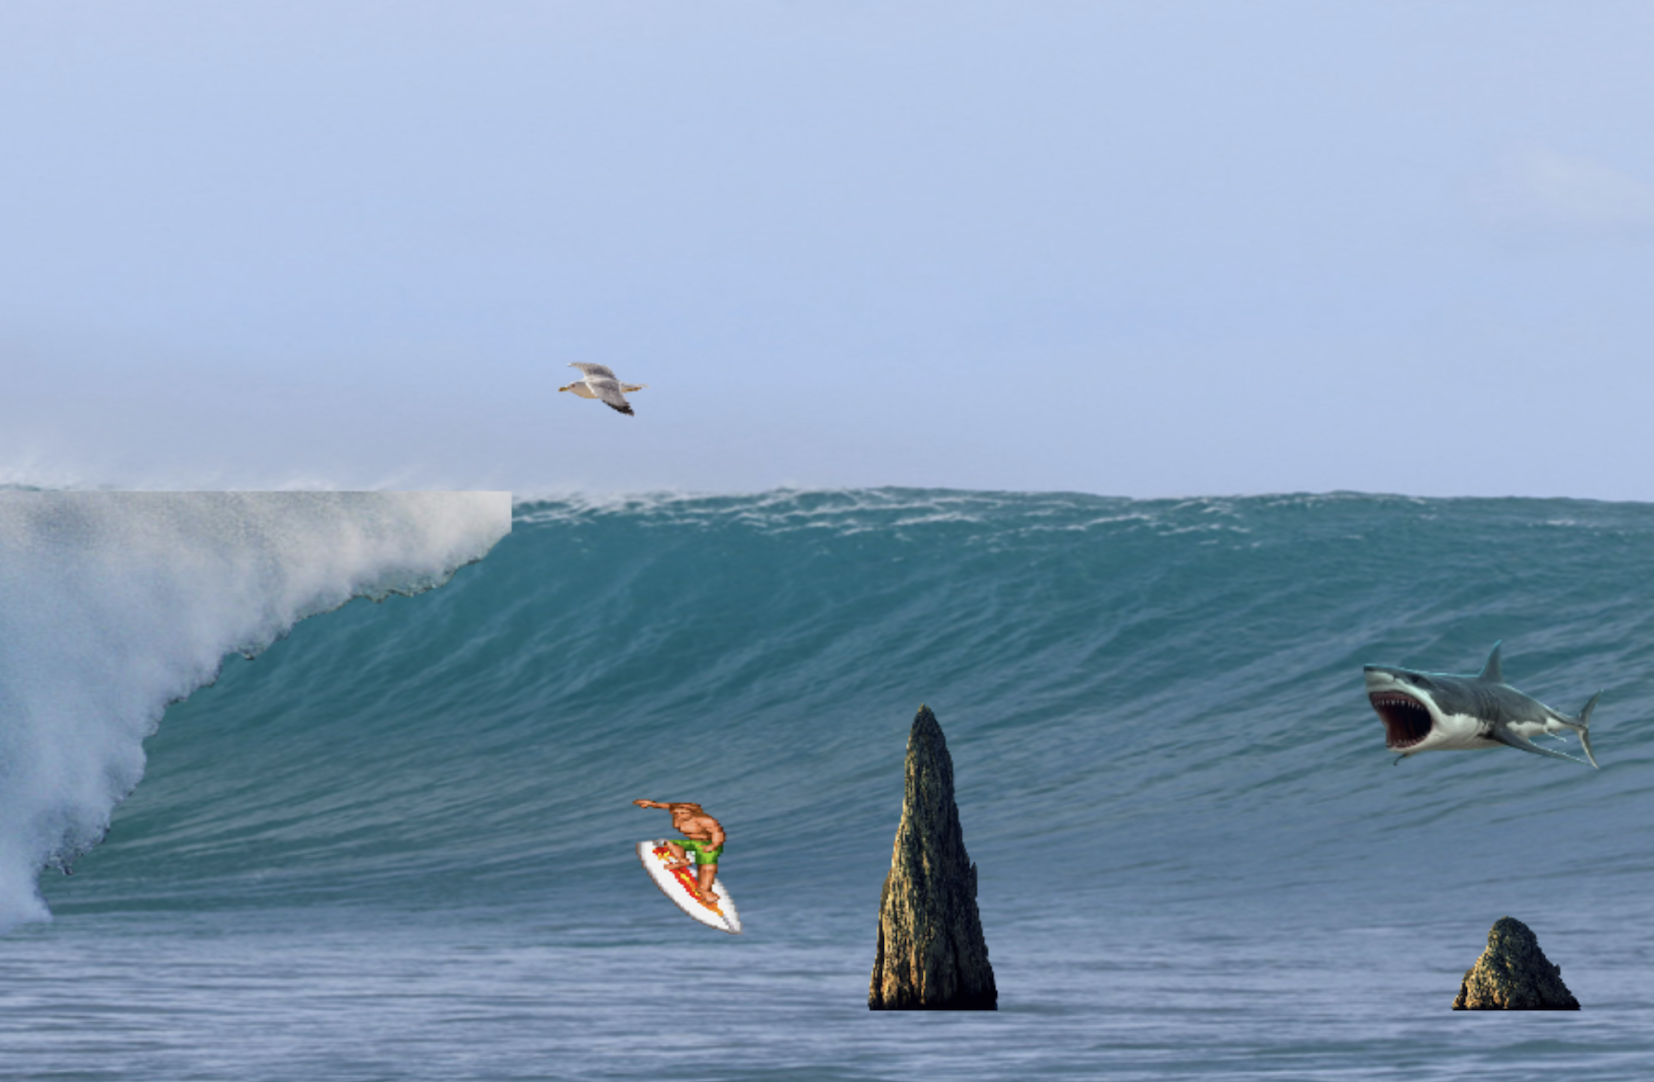
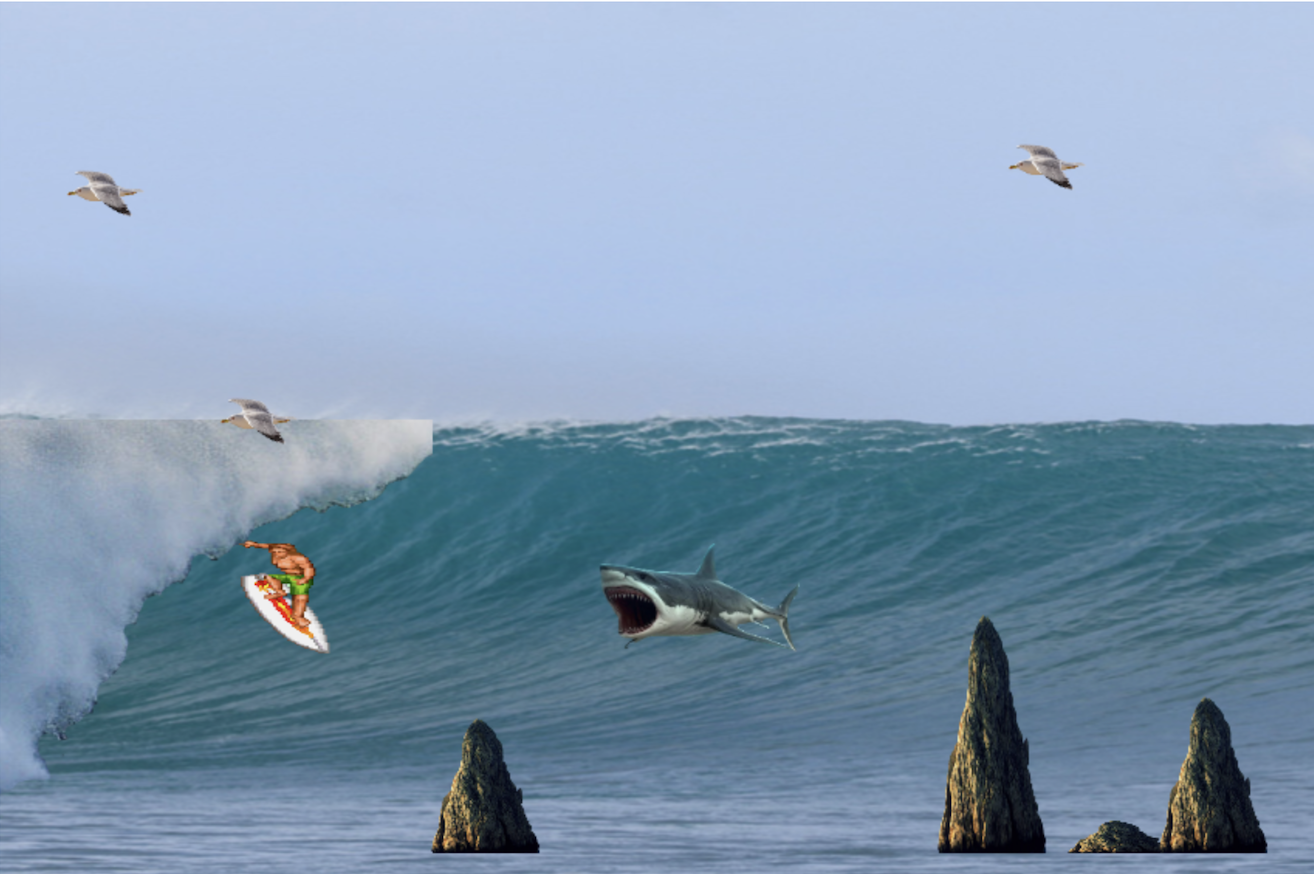
difficulty levels added

diff --git a/components/index.js b/components/index.js
@@ -4,19 +4,37 @@ document.getElementById('high-score').style.display = 'none';
 
 let surfer;
 let currentGame;
-let foamObstacle = new FoamObstacle(280);
 let difficulty;
+let foamObstacle = new FoamObstacle(280);
 
-document.getElementById('start-button').onclick = () => {
+
+document.getElementById('easy-start-button').onclick = () => {
     document.getElementById('game-board').style.display = 'block';
     document.getElementById('score-div').style.display = 'block';
     document.getElementById('high-score').style.display = 'block';
+    document.getElementById('game-image').style.display = 'none';
 
-    startGame();
+    startGame(1);
+}
+document.getElementById('medium-start-button').onclick = () => {
+    document.getElementById('game-board').style.display = 'block';
+    document.getElementById('score-div').style.display = 'block';
+    document.getElementById('high-score').style.display = 'block';
+    document.getElementById('game-image').style.display = 'none';
+
+    startGame(2);
+}
+document.getElementById('hard-start-button').onclick = () => {
+    document.getElementById('game-board').style.display = 'block';
+    document.getElementById('score-div').style.display = 'block';
+    document.getElementById('high-score').style.display = 'block';
+    document.getElementById('game-image').style.display = 'none';
+
+    startGame(3);
 }
 
-function startGame() {
-    currentGame = new Game();
+function startGame(difficulty) {
+    currentGame = new Game(difficulty);
     surfer = new Player(gameWidth, gameHeight);
     new InputHandler(surfer);
     checkHighScore();
@@ -34,7 +52,7 @@ let twoTimesFrequency = 0;
 
 function updateTwoTimesArr(){
     twoTimesFrequency++;
-    if(twoTimesFrequency % 3000 === 0){
+    if(twoTimesFrequency % 1200 === 0){
         twoTimesArr.push(new ScoreTwice(gameWidth));
     }
 }
@@ -45,7 +63,7 @@ let obstaclesFrequency = 0;
 
 function updateTopObstacleArr(){
     obstaclesFrequency++;
-    if(obstaclesFrequency % 320 === 0 ){
+    if(obstaclesFrequency % Math.floor(320/currentGame.difficulty) === 0 ){
         let newGameWitdh = Math.floor(Math.random() * 300) + gameWidth;
         let randomY = Math.floor(Math.random() * 300);
         topObstacleArr.push(new TopObstacle(newGameWitdh, randomY));
@@ -58,9 +76,9 @@ let frames = 0;
 
 function updateWaveObstacleArr(){
     frames ++
-    if(frames % 250 === 0 ){
+    if(frames % Math.floor(250/currentGame.difficulty) === 0 ){
         let newGameWitdh = Math.floor(Math.random() * 350) + gameWidth;
-        let randomHeight = Math.floor(Math.random() * 250);
+        let randomHeight = Math.floor(Math.random() * 160);
         waveObstacleArr.push(new WaveObstacle(newGameWitdh, randomHeight));
     }
 }
@@ -70,7 +88,7 @@ let sharkFrequecy = 0;
 
 function updatesharkObstacleArr(){
     sharkFrequecy ++
-    if(sharkFrequecy % 500 === 0 ){
+    if(sharkFrequecy % Math.floor(500/currentGame.difficulty) === 0 ){
         let newGameWitdh = Math.floor(Math.random() * 300) + gameWidth;
         sharkObstacleArr.push(new SharkObstacle(newGameWitdh));
     }
@@ -108,7 +126,7 @@ function updateGame(){
         powerUp.update();
 
         if (detectCollision(powerUp)) {
-            currentGame.score *= 2
+            currentGame.score *= 2;
             twoTimesArr = [];
         }
     });
@@ -154,24 +172,29 @@ function updateGame(){
     document.getElementById('score-value').innerHTML = currentGame.score ++; 
 
     // more obstacles if score is over X
-    if(currentGame.score > 3000){
+    // if(currentGame.score > 1500){
+    //     increaseObstacles();
+    // }
+    if (currentGame.score > 6000){
         increaseObstacles();
-    } else if (currentGame.score > 9000){
+    }
+    if (currentGame.score > 18000){
         increaseObstacles();
-    } else if (currentGame.score > 18000){
+    } 
+    if (currentGame.score > 36000){
         increaseObstacles();
-    } else if (currentGame.score > 36000){
+    }
+    if (currentGame.score > 72000){
         increaseObstacles();
-    } else if (currentGame.score > 72000){
-        increaseObstacles();
-    } else if (currentGame.score > 144000){
+    } 
+    if (currentGame.score > 144000){
         increaseObstacles();
     }
    
     //check if game is running if not show game over screen and try again button
     if(currentGame.gameIsRunning){
         requestAnimationFrame(updateGame);
-        document.getElementById('start-button').style.display = 'none';
+        document.getElementById('difficulty-buttons').style.display = 'none';
 
     } else {
         ctx.beginPath();
@@ -183,8 +206,8 @@ function updateGame(){
         ctx.textAlign = "center";
         ctx.fillText("GAME OVER", gameWidth/2, gameHeight/2);
 
-        document.getElementById('start-button').style.display = 'block';
-        document.getElementById('start-button').innerText = 'Try Again';
+        
+        document.getElementById('difficulty-buttons').style.display = 'block';
     }
 }
 
@@ -206,4 +229,5 @@ function restartGame(){
     topObstacleArr = [];
     waveObstacleArr = [];
     sharkObstacleArr = [];
+    twoTimesFrequency = 0;
 }

diff --git a/index.html b/index.html
@@ -10,12 +10,13 @@
 <body>
     <div class="game-intro">
         <h1 id="surfGame">Surf Game</h1>
-        <!-- <img src="assets/game-image.png" alt="game-image"> -->
-        <button id="start-button">Click to Surf</button>
-        <div>
-            <!-- <button id="easy-start-button">Easy</button> -->
-            <!-- <button id="medium-start-button">Medium</button> -->
-            <!-- <button id="hard-start-button">Hard</button> -->
+        <img id="game-image" src="assets/game-image.png" alt="game-image">
+        <!-- <button id="start-button">Click to Surf</button> -->
+        <p>Choose a difficulty:</p>
+        <div id="difficulty-buttons">
+            <button id="easy-start-button">Easy</button>
+            <button id="medium-start-button">Medium</button>
+            <button id="hard-start-button">Hard</button>
         </div>
         <div id="score-div">
           <p id="score">Score: <span id="score-value"> 0 </span></p>

diff --git a/styles/style.css b/styles/style.css
@@ -5,7 +5,14 @@ body {
     display: flex;
     /* flex-direction: row; */
 }
-  
+
+#game-image{
+    position: absolute;
+    margin-left: 40em;
+    width: 43em;
+    height: 28em;
+}
+
 .game-intro {
     display: flex;
     align-items: center;
@@ -36,10 +43,10 @@ img{
     border-radius: 5px;
 }
 body button {
-    font-size: 30px;
+    font-size: 20px;
     background-color: #5098d3;
     color: #fff;
-    padding: 20px 40px;
+    padding: 20px 30px;
     border: 0;
     box-shadow: 0;
     border-radius: 5px;

diff --git a/components/game.js b/components/game.js
@@ -2,12 +2,13 @@ const wave = new Image();
 wave.src = 'assets/wave.png';
 
 class Game {
-    constructor(){
+    constructor(difficulty){
         this.image = wave;
         this.surfer = {},
         this.obstacles = [];
         this.score = 0;
         this.gameIsRunning = true;
+        this.difficulty = difficulty;
     }
 
     draw(){
